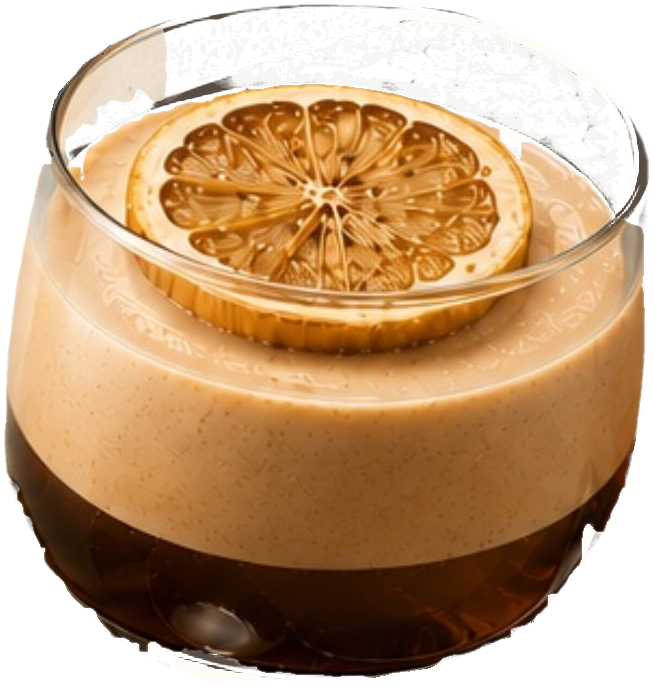
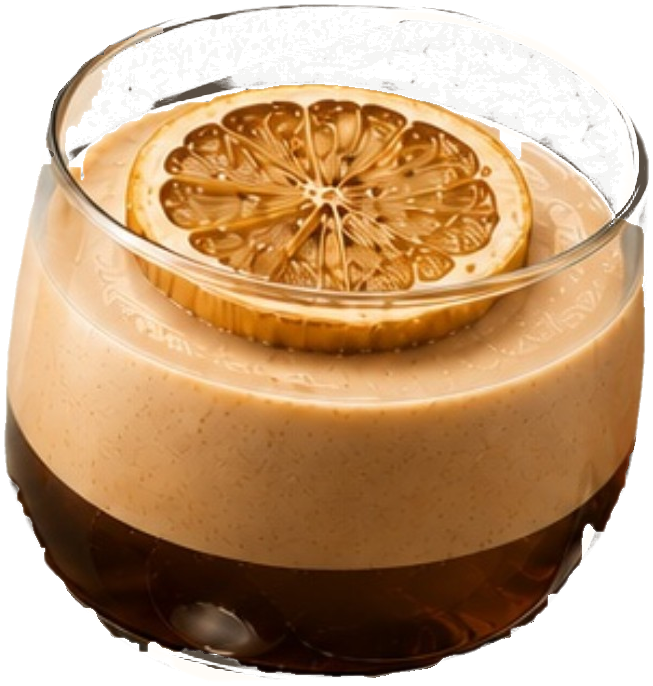
Film round 5 fixes: clean glass, seated lemons, wheel in the foam, splash on contact
- cup asset: poster paper seen through the upper glass removed from the body mask
- chute extends past the frame edge so every waiting lemon sits on it; low back wall
- wheel lands deeper in the foam beside the dried slice (45% submerged, 20deg)
- splash launches slower so it reads from the impact frame; impact shake; camera
  keeps pushing in through the landing
- C tilts 22deg and only nudges (no C/O contact); motion samples capped at 24
- facts.json end-card timings match the film

Claude-Session: https://claude.ai/code/session_01MJqkb4TrrLFNCT63A43qR6

Changed region(s): [[0.1225, 0.0306, 0.2757, 0.1837], [0.0919, 0.1837, 0.1225, 0.2143]]

diff --git a/js/reel-scene.js b/js/reel-scene.js
@@ -45,7 +45,7 @@ XY.buildReel = function (canvas) {
   const LEMON = { w: 250, h: 169 }; // 1.25x after critic round 1: readable at phone size
   // anchored at its lower end, which feeds the C; steep enough that the waiting lemons are in frame
   // long enough that A really rolls (~200 px). Waiting lemons enter from the frame edge, as in reference panel 01.
-  const RAMP = { endX: 372, endY: 668 + DY, angle: 60, length: 680, stop: 196 };
+  const RAMP = { endX: 372, endY: 668 + DY, angle: 60, length: 900, stop: 416 }; // runs on past the frame edge
   const ux = Math.cos((RAMP.angle * Math.PI) / 180), uy = Math.sin((RAMP.angle * Math.PI) / 180);
   RAMP.x = RAMP.endX - RAMP.length * ux;
   RAMP.y = RAMP.endY - RAMP.length * uy;
@@ -117,9 +117,11 @@ XY.buildReel = function (canvas) {
 
   // ramp with lemons B and C behind the stop
   const rampGroup = layer("group", null, 30);
+  const wall = layer("ramp__wall", null, -30, rampGroup); // back wall: reads as a channel, lemons sit in it
   const ramp = layer("ramp", null, 0, rampGroup);
   ramp.innerHTML = '<i class="ramp__lip"></i><i class="ramp__top"></i><i class="ramp__face"></i><i class="ramp__stop" style="left:' + RAMP.stop + 'px"></i>';
   gsap.set(ramp, { x: RAMP.x, y: RAMP.y, rotation: RAMP.angle, transformOrigin: "0 0", width: RAMP.length + 40 });
+  gsap.set(wall, { x: RAMP.x + ux * 0 + uy * 0, y: RAMP.y, rotation: RAMP.angle, transformOrigin: "0 100%", yPercent: -100, width: RAMP.length + 40, z: -30 });
   const lip = layer("ramp__front", null, 0, rampGroup); // front wall of the trough, in front of every lemon
   gsap.set(lip, { x: RAMP.x, y: RAMP.y, rotation: RAMP.angle, transformOrigin: "0 0", width: RAMP.length + 40, z: 8 });
 
@@ -136,7 +138,7 @@ XY.buildReel = function (canvas) {
   const lemonA = lemon(canvas, 2);
   const putOnRamp = (n, d, spin) => gsap.set(n, { ...onRamp(d), rotation: RAMP.angle + (spin || 0) });
   putOnRamp(lemonC, RAMP.stop - 20 - LEMON.w * 1.1); // queued behind B, further back in depth
-  gsap.set(lemonC, { z: -20, scale: 0.94 });
+  gsap.set(lemonC, { z: 3, scale: 0.94 });
   putOnRamp(lemonB, RAMP.stop - 20 - LEMON.w / 2);
   putOnRamp(lemonA, RAMP.stop + 20 + LEMON.w / 2);
 
@@ -164,7 +166,7 @@ XY.buildReel = function (canvas) {
     '<circle cx="50" cy="50" r="44" fill="url(#gloss)"/></svg>';
   gsap.set(wheel, { xPercent: -50, yPercent: -50, width: 150, height: 150 });
 
-  const LAND = { x: 478, y: PY + 222 }; // inside the rim, leaning on the dried slice's left edge
+  const LAND = { x: 545, y: PY + 245 }; // in the foam against the dried slice, well inside the rim
   const shadow = layer("wheel-shadow", null, 59);
   gsap.set(shadow, { xPercent: -50, yPercent: -50, x: LAND.x + 10, y: LAND.y + 34 });
   const drops = Array.from({ length: 10 }, () => {
@@ -210,7 +212,7 @@ XY.buildReel = function (canvas) {
   // frame one is the settled poster; A rocks against the stop, then lets go
   const rollStart = onRamp(RAMP.stop + 20 + LEMON.w / 2);
   // the C tips 40 degrees so its mouth faces up-right under the ramp's end: still readable as a C
-  const mouth = [Math.cos((-30 * Math.PI) / 180), Math.sin((-30 * Math.PI) / 180)];
+  const mouth = [Math.cos((-22 * Math.PI) / 180), Math.sin((-22 * Math.PI) / 180)];
   const rollEnd = onRamp(RAMP.length - LEMON.w / 2 - 10);
   // A drops off the ramp's end into the C's mouth; the C's centre sits behind the mouth
   const bowlPt = { x: rollEnd.x + 125, y: rollEnd.y + 95 };
@@ -220,7 +222,7 @@ XY.buildReel = function (canvas) {
     .fromTo(lemonB, { rotation: RAMP.angle }, { rotation: RAMP.angle + 8, duration: 0.25, yoyo: true, repeat: 1, ease: "sine.inOut" }, 0.3)
     // C swings into a cradle under the end of the ramp, eased in and out
     .fromTo(C, { x: 0, y: 0, rotation: 0, scaleX: 1, scaleY: 1 },
-      { x: CUP.x - C.center.x, y: CUP.y - C.center.y, rotation: -30, duration: 0.6, ease: "back.inOut(1.2)" }, 0.55);
+      { x: CUP.x - C.center.x, y: CUP.y - C.center.y, rotation: -22, duration: 0.6, ease: "back.inOut(1.2)" }, 0.55);
 
   // 02 CATCH 1.2-2.4 -------------------------------------------------------
   const bowl = { x: bowlPt.x, y: bowlPt.y }; // sitting in the C's mouth
@@ -239,9 +241,9 @@ XY.buildReel = function (canvas) {
   tl.to(C, { x: 0, y: 0, rotation: 0, duration: 0.6, ease: "sine.inOut" }, 2.4)
     .to(lemonA, { x: 540, y: axisY(540), rotation: 352, z: 30, duration: 0.6, ease: "sine.inOut" }, 2.4)
     .to([O1, O2], { rotationY: 40, duration: 0.45, stagger: 0.1, ease: "back.out(1.6)" }, 2.45)
-    .to(C, { x: 30, duration: 0.4, ease: "power2.out" }, 2.95) // short push: C never overlaps the first O
+    .to(C, { x: 12, duration: 0.4, ease: "power2.out" }, 2.95) // a nudge: the C never touches the first O
     .to(lemonA, { x: 760, y: axisY(760), duration: 0.95, ease: "power2.inOut" }, 2.95)
-    .to(C, { x: 16, duration: 0.5, ease: "sine.inOut" }, 3.35);
+    .to(C, { x: 4, duration: 0.5, ease: "sine.inOut" }, 3.35);
 
   // 04 CUT 3.9-6.0 ---------------------------------------------------------
   const tip = { x: 835, y: axisY(835) };          // lemon tip ends at x 960, across the L's stem
@@ -282,12 +284,13 @@ XY.buildReel = function (canvas) {
   const FALL = 5.45, SPLASH = 6.5;
   tl.to(wheel, { x: LAND.x, duration: SPLASH - FALL, ease: "sine.inOut" }, FALL)
     .to(wheel, { y: LAND.y, duration: SPLASH - FALL, ease: "power2.in" }, FALL)
-    .to(wheel, { rotationX: 25, rotationY: 0, rotation: 200, scale: 1.5, duration: SPLASH - FALL, ease: "power1.in" }, FALL)
+    .to(wheel, { rotationX: 20, rotationY: 0, rotation: 200, scale: 1.5, duration: SPLASH - FALL, ease: "power1.in" }, FALL)
     .to(wheel, { y: LAND.y - 14, duration: 0.18, ease: "power2.out", yoyo: true, repeat: 1 }, SPLASH)
-    .fromTo(wheel.firstChild, { clipPath: "inset(0% 0% 0% 0%)" }, { clipPath: "inset(0% 0% 34% 0%)", duration: 0.3, ease: "power2.out", immediateRender: false }, SPLASH + 0.04) // sinks into the foam
+    .fromTo(wheel.firstChild, { clipPath: "inset(0% 0% 0% 0%)" }, { clipPath: "inset(0% 0% 45% 0%)", duration: 0.3, ease: "power2.out", immediateRender: false }, SPLASH) // sinks into the foam
     .to(shadow, { autoAlpha: 0.7, scale: 1, duration: 0.25, ease: "power2.out" }, SPLASH - 0.1)
-    .fromTo(ripple, { autoAlpha: 0.95, scale: 0.2 }, { autoAlpha: 0, scale: 1.6, duration: 0.85, ease: "power2.out", immediateRender: false }, SPLASH)
-    .fromTo(ripple2, { autoAlpha: 0.8, scale: 0.15 }, { autoAlpha: 0, scale: 1.1, duration: 0.8, ease: "power2.out", immediateRender: false }, SPLASH + 0.12);
+    .fromTo(ripple, { autoAlpha: 0.95, scale: 0.5 }, { autoAlpha: 0, scale: 1.6, duration: 0.85, ease: "power2.out", immediateRender: false }, SPLASH)
+    .fromTo(ripple2, { autoAlpha: 0.8, scale: 0.4 }, { autoAlpha: 0, scale: 1.1, duration: 0.8, ease: "power2.out", immediateRender: false }, SPLASH + 0.1)
+    .fromTo(cam, { x: 0 }, { x: -7, duration: 0.033, yoyo: true, repeat: 3, ease: "sine.inOut", immediateRender: false }, SPLASH); // impact
   drops.forEach((d, i) => {
     const a = -Math.PI * (0.12 + (0.76 * i) / (drops.length - 1)); // symmetric crown out of the surface
     const r = 120 + ((i * 37) % 3) * 50;
@@ -296,8 +299,8 @@ XY.buildReel = function (canvas) {
     // drops start at the wheel's rim on the contact frame, so the splash is visible immediately
     const sx = LAND.x + Math.cos(a) * 80, sy = LAND.y + 30 + Math.sin(a) * 20;
     tl.fromTo(d, { x: sx, y: sy, autoAlpha: 1, scaleX: size * 0.7, scaleY: size * 1.6, rotation: (a * 180) / Math.PI + 90 },
-        { x: sx + Math.cos(a) * r, y: sy + Math.sin(a) * r * 1.3, scaleX: size, scaleY: size, duration: 0.26, ease: "power2.out", immediateRender: false }, SPLASH)
-      .to(d, { y: "+=90", autoAlpha: 0, scaleX: size * 0.6, scaleY: size * 1.2, duration: 0.32, ease: "power2.in" }, SPLASH + 0.26);
+        { x: sx + Math.cos(a) * r * 0.8, y: sy + Math.sin(a) * r, scaleX: size, scaleY: size, duration: 0.4, ease: "power1.out", immediateRender: false }, SPLASH)
+      .to(d, { y: "+=80", autoAlpha: 0, scaleX: size * 0.6, scaleY: size * 1.2, duration: 0.3, ease: "power2.in" }, SPLASH + 0.4);
   });
 
   // 06 HERO 7.1-10 ---------------------------------------------------------
@@ -324,8 +327,9 @@ XY.buildReel = function (canvas) {
     [HIT, 930, 800, 2.0],         // the stroke, close
     [5.35, 900, 850, 1.85],
     [6.0, 700, 1250, 1.2],        // FALL: pull out ahead of the wheel (word re-forming in frame)...
-    [6.45, 620, LAND.y - 260, 1.1], // ...settling as it lands, still drifting after
-    [7.1, 640, LAND.y - 300, 1.05],
+    [6.45, 620, LAND.y - 260, 1.1], // ...arriving as it lands
+    [6.95, 600, LAND.y - 220, 1.16], // and pushing in through the impact (no stall)
+    [7.4, 640, LAND.y - 300, 1.06],
     [8.2, W / 2, H / 2, 1.0],     // HERO: the full poster
     [DURATION, W / 2, H / 2, 1.0],
   ];

diff --git a/film/render.js b/film/render.js
@@ -19,7 +19,7 @@ const args = process.argv.slice(2);
 const opt = (k, d) => { const i = args.indexOf("--" + k); return i >= 0 ? +args[i + 1] : d; };
 const out = path.resolve(args[0] && !args[0].startsWith("--") ? args[0] : "dist/film");
 const FPS = opt("fps", 30), STEP = opt("step", 1); // --step N: quick preview of every Nth frame
-const SUB = opt("sub", 40); // max samples per frame; the actual count follows on-screen motion (~4 px per sample)
+const SUB = opt("sub", 24); // max samples per frame; the actual count follows on-screen motion (~4 px per sample)
 const ffmpeg = process.env.FFMPEG || execFileSync("python3", ["-c", "import imageio_ffmpeg as f; print(f.get_ffmpeg_exe())"]).toString().trim();
 
 (async () => {

diff --git a/css/styles.css b/css/styles.css
@@ -349,3 +349,4 @@ a { color: inherit; }
 .ramp__face { inset: 30px 0 0; }
 .ramp__front { height: 34px; }
 .ramp__stop { top: -86px; width: 34px; height: 90px; }
+.ramp__wall { height: 64px; background: linear-gradient(#a3ad8b, #8d9874); border-radius: 6px 6px 0 0; transform-origin: 0 100%; }

diff --git a/tools/build_assets.py b/tools/build_assets.py
@@ -178,6 +178,15 @@ specks = cv2.morphologyEx(cup_raw.astype(np.uint8), cv2.MORPH_OPEN, np.ones((3, 
 glass_outline = hull(specks) & ~cv2.dilate(spoon.astype(np.uint8), np.ones((5, 5))).astype(bool)
 body = fill_holes(largest_component(cv2.morphologyEx(cup_raw.astype(np.uint8), cv2.MORPH_OPEN, np.ones((9, 9))) > 0))
 body &= glass_outline
+# The poster's cream paper shows through the upper glass; SAM counted it as body.
+# Paper is pale and nearly neutral (R-B < 40); foam and lemon are warm (R-B ~ 75+).
+ys_, xs_ = np.where(glass_outline)
+upper = np.zeros_like(body)
+upper[: ys_.min() + int((ys_.max() - ys_.min()) * 0.45)] = True
+paper = (L > 185) & ((P[..., 0] - P[..., 2]) < 40) & upper
+paper = cv2.morphologyEx(paper.astype(np.uint8), cv2.MORPH_OPEN, np.ones((3, 3))).astype(bool)
+paper = fill_holes(largest_component(paper & body))  # the one background patch, not pale glass highlights
+body &= ~paper
 glass_zone = glass_outline & ~body
 
 local_bg = cv2.medianBlur(L.astype(np.uint8), 31).astype(np.float32)
